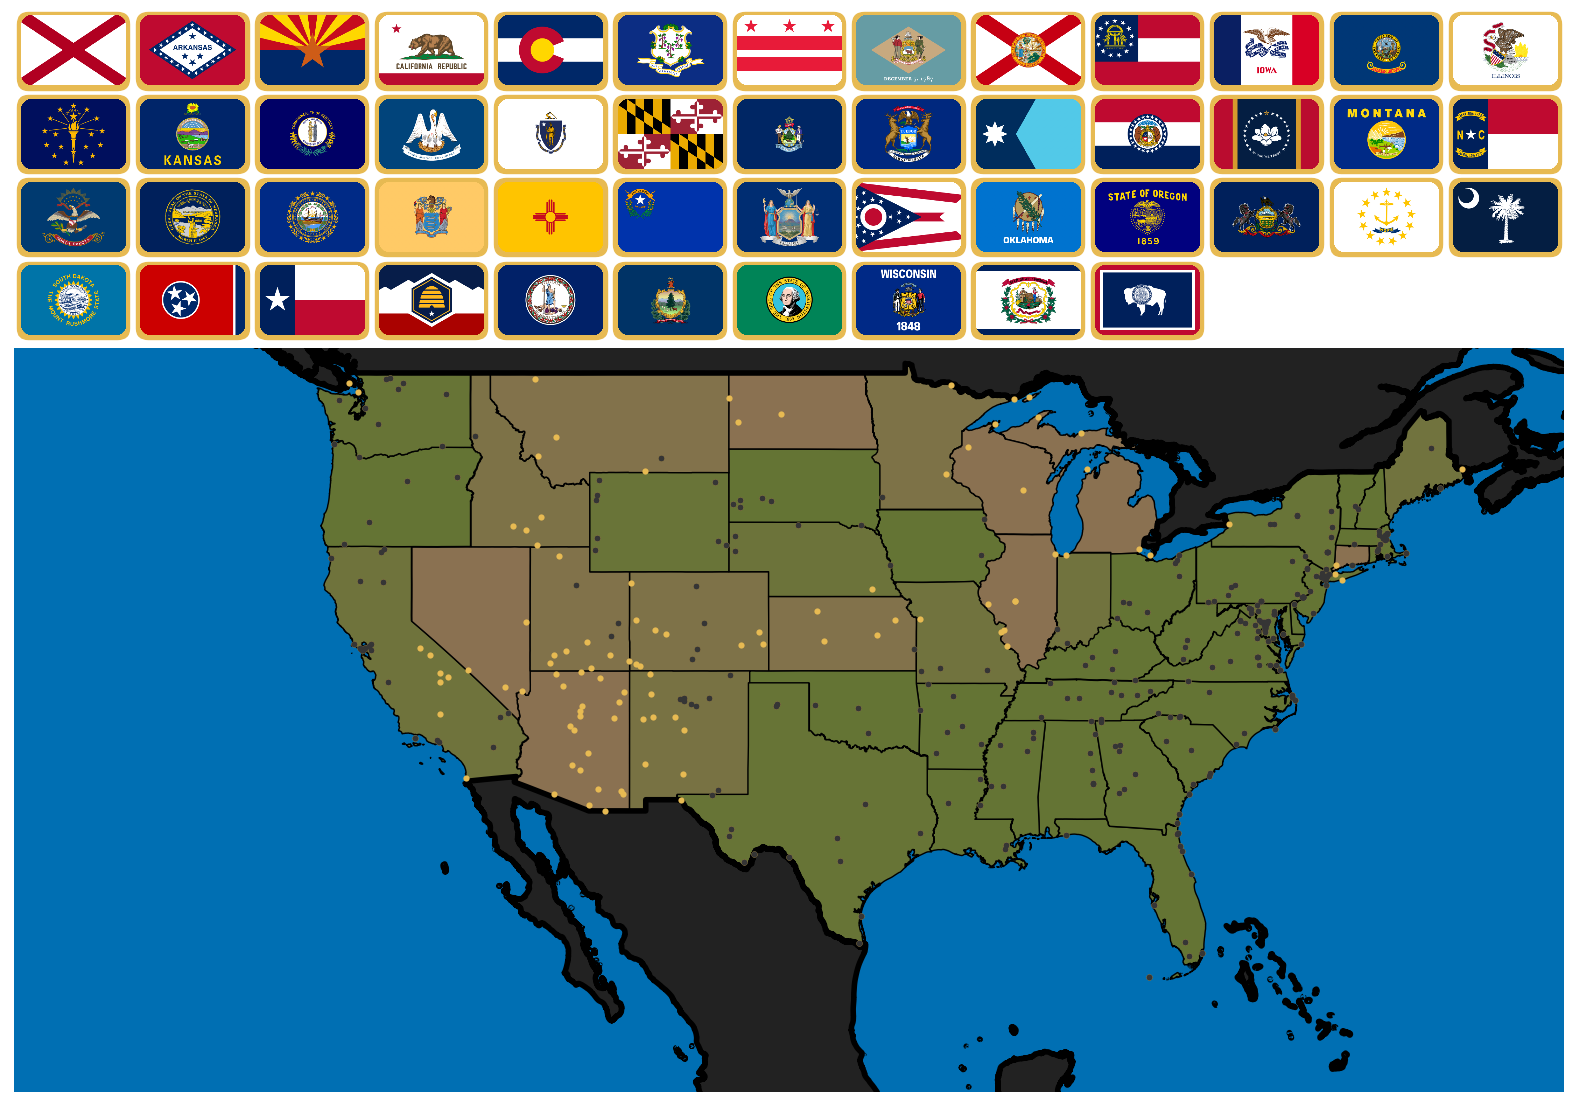
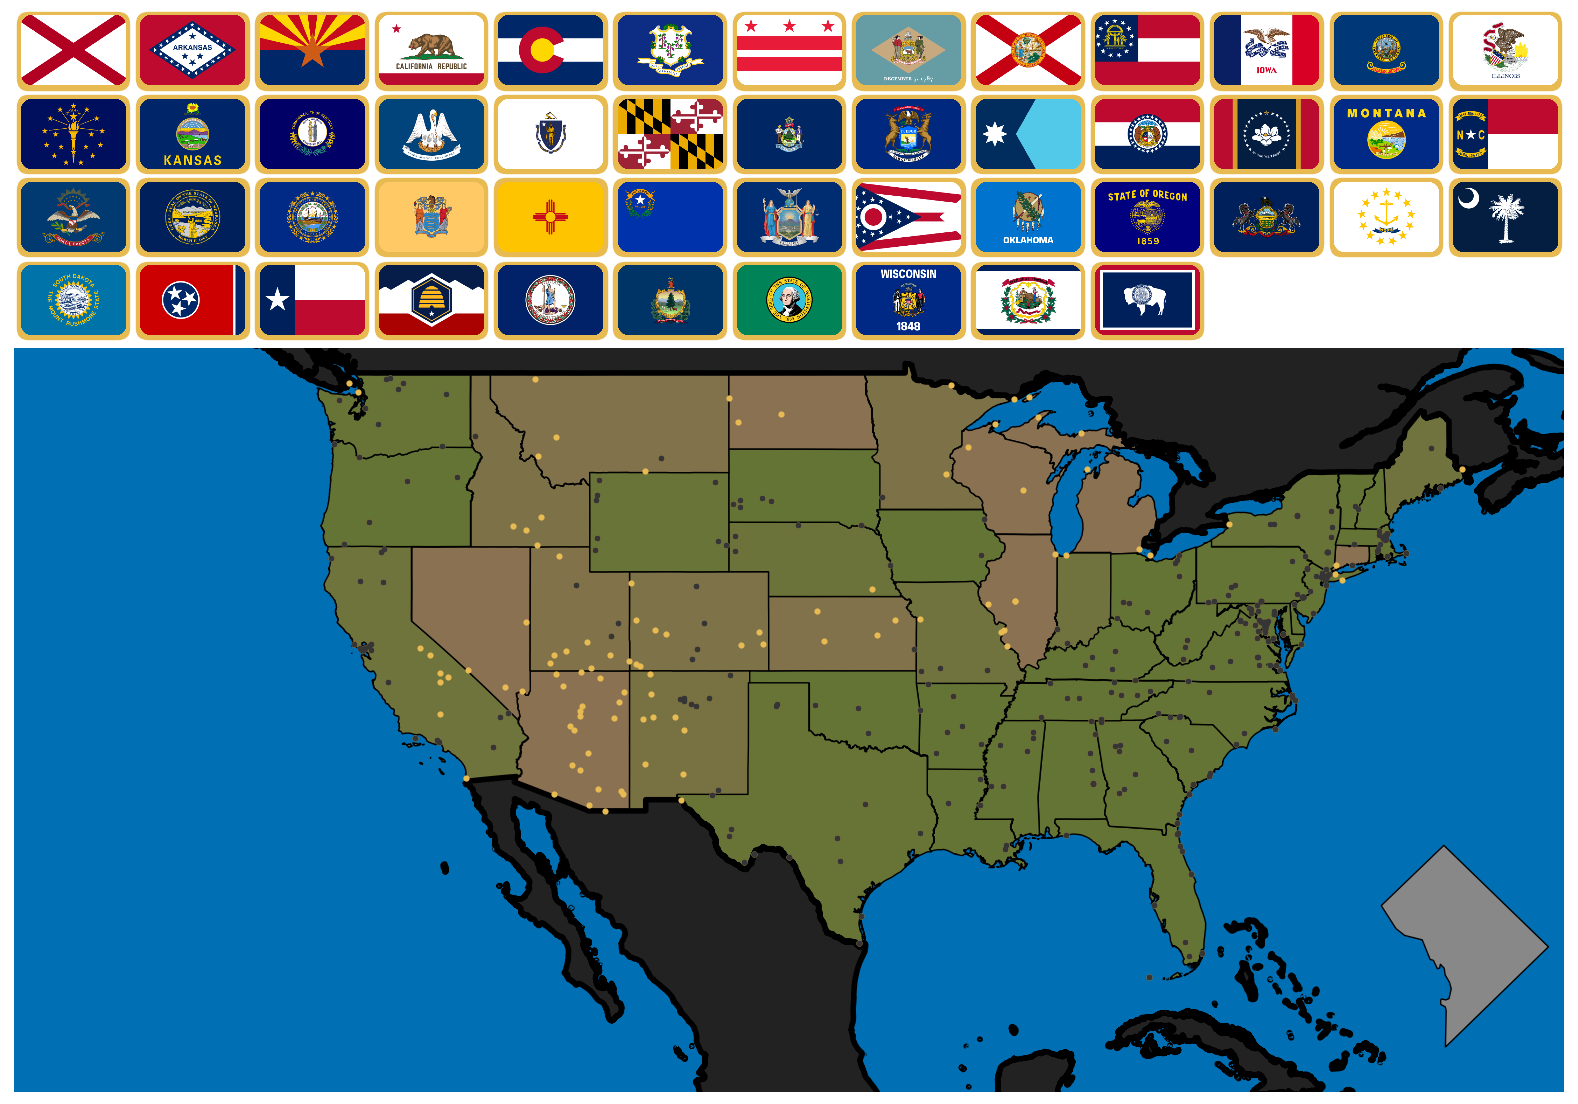
add first breakout map

Changed region(s): [[0.8695, 0.7699, 0.9937, 0.9547], [0.6831, 0.8931, 0.8384, 1.0], [0.8384, 0.9239, 0.8695, 0.9547]]

diff --git a/plotting/plotting_manager.py b/plotting/plotting_manager.py
@@ -8,6 +8,7 @@ import matplotlib.image as mpimg
 import matplotlib.patches as patches
 from matplotlib.offsetbox import OffsetImage, AnnotationBbox
 import geopandas as gpd
+from shapely import affinity
 
 from utils.file_utils import (
     crop_and_save_image,
@@ -21,10 +22,11 @@ from colormap.cmap_maker import CustomCmap
 random.seed(5)
 
 class PlotManager:
-    def __init__(self, points_gdf, submaps, bgmaps, meta_data, path, scale):
+    def __init__(self, points_gdf, submaps, bgmaps, bomaps, meta_data, path, scale):
         self.points_gdf = points_gdf
         self.submaps = submaps
         self.bgmaps = bgmaps
+        self.bomaps = bomaps
         self.meta_data = meta_data
         self.path = path
         self.scale = scale
@@ -100,13 +102,31 @@ class PlotManager:
             shapefile_path = os.path.join(self.path, "submaps", f"{submap}.shp")
             submap_gdf = gpd.read_file(shapefile_path)
             submap_gdf.plot(ax=ax, edgecolor="black", linewidth=1/self.scale, color=color, alpha=1)
-        # Background Plotting
+        # Background Map Plotting
         for bgmap in self.bgmaps:
             color = self.bg_land
 
             shapefile_path = os.path.join(self.path, "bg_maps", f"{bgmap}.shp")
             bgmap_gdf = gpd.read_file(shapefile_path)
             bgmap_gdf.plot(ax=ax, edgecolor="black", linewidth=4/self.scale, color=color, alpha=1)
+        # Breakout Map Plotting
+        for bomap in self.bomaps:
+            color = "#888888"
+
+            shapefile_path = os.path.join(self.path, "bo_maps", f"{bomap}.shp")
+            bomap_gdf = gpd.read_file(shapefile_path)
+            
+            bomap_gdf["geometry"] = bomap_gdf["geometry"].apply(
+                lambda geom: affinity.scale(geom, xfact=40, yfact=40, origin="center"),
+            )
+
+            bomap_gdf["geometry"] = bomap_gdf["geometry"].apply(
+                lambda geom: affinity.translate(geom, xoff=10, yoff=-13)
+            )
+
+
+
+            bomap_gdf.plot(ax=ax, edgecolor="black", linewidth=1/self.scale, color=color, alpha=1)
 
     def _plot_points(self, ax, current_date):
         scale_factor = self.marker_size

diff --git a/main.py b/main.py
@@ -5,13 +5,14 @@ from metadata.meta_loader import MetaLoader
 from data.points_loader import PointsLoader
 from data.submaps_loader import SubmapsLoader
 from data.bgmaps_loader import BGmapsLoader
+from data.bomaps_loader import BOmapsLoader
 from plotting.plotting_manager import PlotManager
 from plotting.gif_generator import GifGenerator
 from utils.file_utils import ensure_directory_exists
 
 
 # Set global variables, directories for map creation and site locations
-SCALE = 5
+SCALE = 1
 
 # US National Park Global Variables
 PATH = "us"
@@ -35,6 +36,7 @@ meta_data = MetaLoader(PATH).load()
 points_gdf = PointsLoader(PATH).load()
 submaps = SubmapsLoader(PATH).load()
 bgmaps = BGmapsLoader(PATH).load()
+bomaps = BOmapsLoader(PATH).load()
 
 # Create a sorted values df
 points_sorted = points_gdf.sort_values('date')
@@ -45,6 +47,7 @@ plot_manager = PlotManager(
     points_gdf=points_gdf,
     submaps=submaps,
     bgmaps=bgmaps,
+    bomaps=bomaps,
     meta_data=meta_data,
     path=PATH,
     scale=SCALE

diff --git a/data/bomaps_loader.py b/data/bomaps_loader.py
@@ -1,0 +1,20 @@
+import os
+
+class BOmapsLoader:
+    def __init__(self, path):
+        self.path = path
+
+    def load(self):
+        """
+        Loads and returns a sorted list of submap names (without '.shp') from the submaps directory.
+        """
+        bomaps_dir = f"{self.path}/bo_maps"
+        bomap_files = os.listdir(bomaps_dir)
+
+        bomaps = [
+            filename.replace('.shp', '')
+            for filename in bomap_files
+            if filename.endswith('.shp')
+        ]
+        bomaps.sort()
+        return bomaps
